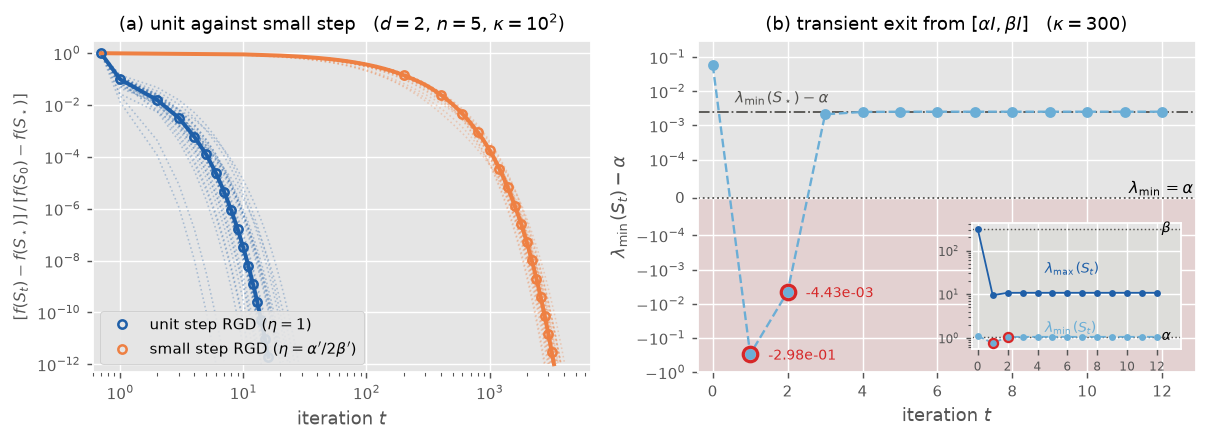
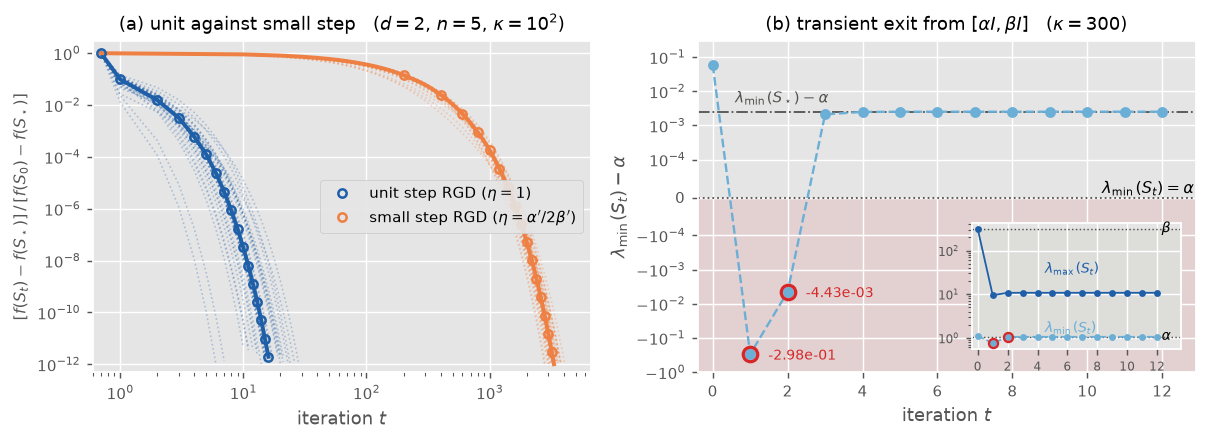
Refine Fig 1(b) floor label and Fig 1(a) legend placement; final notebook run
- panel (b): 'alpha' -> 'lambda_min(S_t) = alpha' on the deviation axis
- panel (a): legend moved to center right
- notebook: final end-to-end execution

Changed region(s): [[0.0918, 0.7059, 0.306, 0.8235], [0.2754, 0.4118, 0.4897, 0.5294], [0.9181, 0.4118, 1.0, 0.4412]]

diff --git a/prgdplots.py b/prgdplots.py
@@ -175,7 +175,7 @@ def draw_convergence(axis, runs):
     axis.set_ylim(HEADLINE_FLOOR * 0.5, 3.0)
     axis.set_xlabel("iteration $t$")
     axis.set_ylabel(r"$[f(S_t) - f(S_\star)]\,/\,[f(S_0) - f(S_\star)]$", fontsize=9)
-    axis.legend(loc="lower left", fontsize=8.5, framealpha=0.9)
+    axis.legend(loc="center right", fontsize=8.5, framealpha=0.9)
     axis.set_title(r"(a) unit against small step   ($d = 2$, $n = 5$, $\kappa = 10^2$)",
                    fontsize=10)
     return int(tu[keep_u].max()), int(ts[keep_s].max())
@@ -193,7 +193,7 @@ def draw_exit(axis, spectra, alpha, beta, dev_star):
     axis.annotate(r"$\lambda_{\min}(S_\star) - \alpha$", (0.6, dev_star),
                   textcoords="offset points", xytext=(0, 5), fontsize=8.5,
                   color=INK_SECONDARY)
-    axis.annotate(r"$\lambda_{\min} = \alpha$", (t[-1] + 0.85, 0.0), fontsize=9,
+    axis.annotate(r"$\lambda_{\min}(S_t) = \alpha$", (t[-1] + 0.85, 0.0), fontsize=9,
                   ha="right", va="bottom")
     axis.axhspan(-1.0, 0.0, color=VIOLATION_RED, alpha=0.10, lw=0, zorder=0)
     axis.plot(t, dev, "o", ls="--", color=LIGHTBLUE, ms=5.0, lw=1.3, zorder=3)
